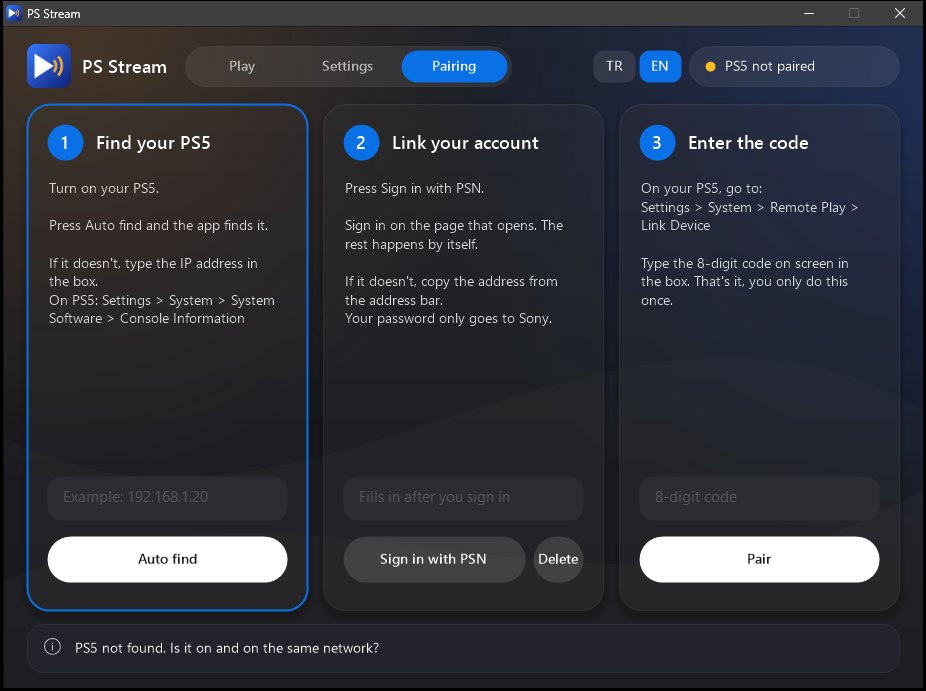
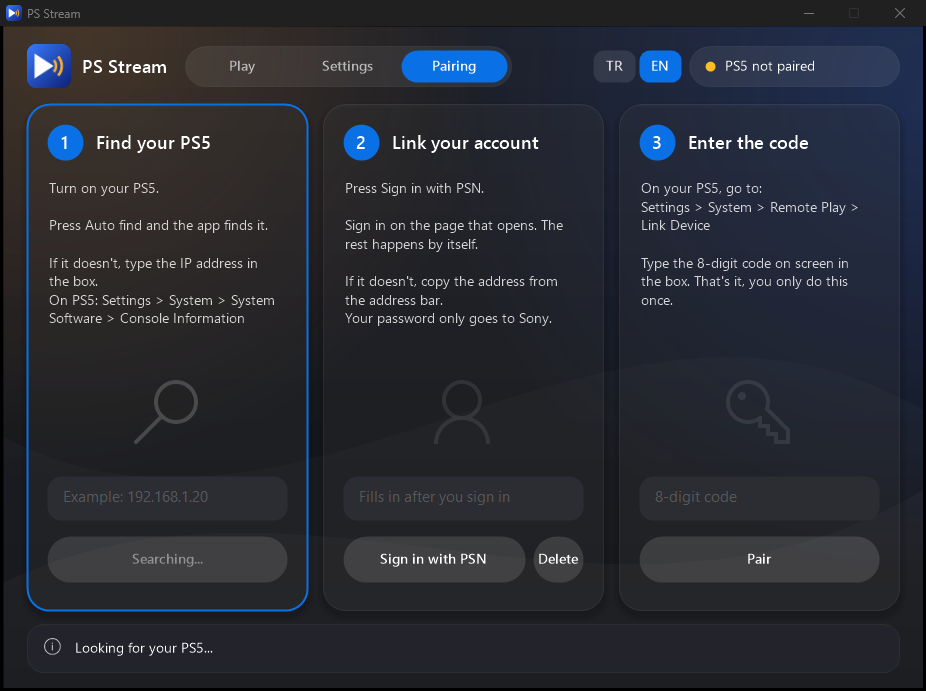
Make the Play and Pairing pages easier to read
Put each card's state on a dark pill, since green and amber were hard to
read on the orange card, and make only the start button stand out. Show the
current quality and output device on the cards, with the device clickable,
and use large faint icons in the empty space.

Move Cancel on the Pairing page off the code box, which took its clicks.

diff --git a/src/ui.c b/src/ui.c
@@ -44,6 +44,9 @@
 #define ICON_INFO L"\uE946"
 #define ICON_VOLUME L"\uE995"
 #define ICON_MUTED L"\uE74F"
+#define ICON_STEP_FIND L"\uE721"
+#define ICON_STEP_ACCOUNT L"\uE77B"
+#define ICON_STEP_CODE L"\uE8D7"
 #define ICON_PLAY L""
 
 enum { UI_NONE, UI_NAV0, UI_NAV1, UI_NAV2, UI_AUDIO, UI_VIDEO, UI_MUTE, UI_LOWER, UI_HK_MUTE, UI_DETAILS, UI_ADVANCED, UI_SIMPLE, UI_APPLY, UI_FIND, UI_LOGIN, UI_ACCOUNT_CLEAR, UI_PAIR, UI_REPAIR,
@@ -52,7 +55,8 @@ enum { UI_NONE, UI_NAV0, UI_NAV1, UI_NAV2, UI_AUDIO, UI_VIDEO, UI_MUTE, UI_LOWER
 
 static struct {
 	GpGraphics *gx;
-	GpFont *small, *body, *semi, *title, *big, *icon, *icon_big;
+	GpFont *small, *body, *semi, *title, *big, *icon, *icon_big, *icon_large, *icon_huge;
+	ARGB slider_fill;
 	GpStringFormat *fmt;
 	HDC back_dc, bg_dc;
 	HBITMAP back_bmp;
@@ -295,7 +299,7 @@ static bool slider(int id, float x, float y, float w, int *value, int min, int m
 	}
 	float t = (float)(*value - min) / (max - min);
 	fill_round(x, y + 12, w, 4, 2, WHITE(45));
-	fill_round(x, y + 12, w * t, 4, 2, C_ACCENT);
+	fill_round(x, y + 12, w * t, 4, 2, ui.slider_fill);
 	float grow = anim(id, b.held || b.hot ? 1.0f : 0) * 2;
 	dot(x + w * t - 8 - grow / 2, y + 6 - grow / 2, 16 + grow, mix(WHITE(230), WHITE(255), grow / 2));
 	return *value != old;
@@ -556,6 +560,7 @@ static void card(int id, float x, float y, float w, float h, ARGB c1, ARGB c2, c
 		GdipSetClipPath(ui.gx, p, CombineModeReplace);
 		wave(ui.gx, dx, dy, dw, dh, 0.38f, 0.12f, 0.70f, 0.30f, WHITE(18));
 		wave(ui.gx, dx, dy, dw, dh, 0.60f, 0.84f, 0.32f, 0.52f, WHITE(20));
+		text(icon, ui.icon_huge, x + w - 200, y + 26, 190, 190, WHITE(30), 1, 1);
 		if(lit == 0)
 		{
 			GpSolidFill *dim;
@@ -580,10 +585,19 @@ static void card(int id, float x, float y, float w, float h, ARGB c1, ARGB c2, c
 	bool connecting = on && !g.connected;
 	bool blink = connecting && (GetTickCount() / 500) % 2;
 	float py = y + h - 76;
-	dot(x + 28, py + 20, 12, !on ? WHITE(110) : connecting ? (blink ? COLOR(110, 251, 191, 36) : C_AMBER) : C_GREEN);
-	text(!on ? L"Kapalı" : connecting ? L"Bağlanıyor" : L"Açık", ui.title, x + 48, py, w - 200, 52, !on ? WHITE(190) : connecting ? C_AMBER : C_GREEN, 0, 1);
-	if(pill_button(id, on ? L"Kapat" : L"Aç", x + w - 146, py, 124, 52, true, true))
+	// On a dark pill, since green and amber are hard to read directly on the coloured card
+	fill_round(x + 20, py + 6, 152, 40, 20, COLOR(95, 0, 0, 0));
+	dot(x + 34, py + 20, 12, !on ? WHITE(110) : connecting ? (blink ? COLOR(110, 251, 191, 36) : C_AMBER) : C_GREEN);
+	text(!on ? L"Kapalı" : connecting ? L"Bağlanıyor" : L"Açık", ui.title, x + 54, py, 116, 52, !on ? WHITE(210) : connecting ? C_AMBER : C_GREEN, 0, 1);
+	// The button to start stands out; the one to stop doesn't need to
+	if(pill_button(id, on ? L"Kapat" : L"Aç", x + w - 146, py, 124, 52, !on, true))
 		toggle(id);
+}
+
+static void card_info(float x, float y, float w, const wchar_t *label, ARGB fill)
+{
+	fill_round(x, y, w, 30, 15, fill);
+	text(label, ui.small, x + 14, y, w - 28, 30, WHITE(235), 0, 1);
 }
 
 static void stat_tile(float x, float y, float w, float h, const wchar_t *label, const wchar_t *value, ARGB color)
@@ -597,12 +611,31 @@ static void stat_tile(float x, float y, float w, float h, const wchar_t *label, 
 static void page_play(void)
 {
 	Settings s = settings_get();
+	// The output device can also be chosen from this page, where there's no Apply to press
+	if(strcmp(ui.draft.device, s.device) != 0)
+	{
+		snprintf(s.device, sizeof(s.device), "%s", ui.draft.device);
+		settings_commit(&s);
+	}
 
 	// Without the details row, the cards take its room
 	float extra = anim(UI_NONE + UI_MAX, ui.details ? 0 : 70);
 	float cw = (UI_W - 48 - 16) / 2.0f, cy = 78, ch = 330 + extra;
 	card(UI_AUDIO, 24, cy, cw, ch, COLOR(255, 214, 134, 46), COLOR(255, 110, 58, 24), ICON_AUDIO,
 			L"Ses", L"Oyunun sesini bilgisayardan duy.", g.want_audio != 0);
+
+	wchar_t info[128], device_w[64];
+	wcscpy(device_w, tr(L"Windows varsayılanı"));
+	if(s.device[0])
+		MultiByteToWideChar(CP_UTF8, 0, s.device, -1, device_w, 63);
+	device_w[63] = 0;
+	swprintf(info, 128, tr(L"Çıkış: %ls"), device_w);
+	Hit output = hit(UI_DEVICE, 46, cy + 146, cw - 44, 30);
+	card_info(46, cy + 146, cw - 44, info, COLOR((int)(95 + 45 * anim(UI_DEVICE, output.hot ? 1.0f : 0)), 0, 0, 0));
+	if(output.click)
+		ui.open_device_menu = true;
+	if(mouse_in(46, cy + 146, cw - 44, 30))
+		ui.tip = L"Oyun sesinin çıkacağı aygıtı seç";
 
 	// Volume right on the card, since it's the control people reach for most
 	float vy = cy + ch - 124;
@@ -614,8 +647,10 @@ static void page_play(void)
 	if(mouse_in(40, vy - 2, 32, 32))
 		ui.tip = L"Sesi kısar, bağlantı açık kalır. Kısayol: Gelişmiş ayarlar";
 	int volume = s.volume;
+	ui.slider_fill = WHITE(240); // Blue fights with the orange card
 	if(slider(UI_QUICK_VOLUME, 80, vy, cw - 150, &volume, 0, 200))
 		volume_set(volume);
+	ui.slider_fill = C_ACCENT;
 	wchar_t pct[16];
 	swprintf(pct, 16, tr(L"%%%d"), volume);
 	text(g.muted ? L"Kısık" : pct, ui.semi, cw - 50, vy, 58, 28, g.muted ? C_AMBER : C_TEXT, 2, 1);
@@ -627,6 +662,10 @@ static void page_play(void)
 			L"Görüntü", L"Oyunu bilgisayarda gör.\nDiscord'da \"PS Stream - Görüntü\" penceresini seç.", g.want_video != 0);
 	if(mouse_in(vx, cy, cw, ch - 80))
 		ui.tip = L"Görüntü penceresinde F11 tam ekran yapar.";
+	wchar_t rate[32];
+	bitrate_text(rate, 32, s.kbps);
+	swprintf(info, 128, L"%dp  ·  %d FPS  ·  %ls  ·  %ls", resolutions[s.res].height, s.fps, rate, s.h265 ? L"H.265" : L"H.264");
+	card_info(vx + 22, cy + 146, cw - 44, info, COLOR(95, 0, 0, 0));
 
 	static const wchar_t *const names[] = { L"En düşük", L"Düşük", L"Dengeli", L"Yüksek", L"En yüksek" };
 	static const wchar_t *const subs[] = { L"360p, 0,5 Mbps", L"360p, 2 Mbps", L"720p, 6 Mbps", L"1080p 60, 20 Mbps", L"1080p 60, 50 Mbps" };
@@ -969,6 +1008,10 @@ static void page_pair(void)
 			text(nums[i], ui.title, x + 20, y + 20, 36, 36, C_TEXT, 1, 1);
 		text(titles[i], ui.title, x + 66, y + 20, w - 80, 36, C_TEXT, 0, 1);
 		bool done = i == 2 && paired_view;
+		static const wchar_t *const step_icons[] = { ICON_STEP_FIND, ICON_STEP_ACCOUNT, ICON_STEP_CODE };
+		// The third step's space holds the Cancel button while pairing again
+		if(i != 2 || !g.paired || paired_view)
+			text(done ? ICON_CHECK : step_icons[i], ui.icon_large, x, y + 262, w, 100, steps_done[i] ? COLOR(46, 74, 222, 128) : WHITE(next_step == i ? 46 : 22), 1, 1);
 		text(done ? L"PS5 eşleşti. Bir daha kod girmen gerekmez.\n\nOynat sayfasından Ses veya Görüntü'yü aç, yeterli.\n\nKodu sadece başka bir hesap bağlamak istersen girersin." : bodies[i], ui.body, x + 20, y + 74, w - 40, 284, WHITE(205), 0, 0);
 		if(!done)
 		{
@@ -1014,7 +1057,7 @@ static void page_pair(void)
 	else
 	{
 		// The old pairing keeps working until a new one replaces it, so this can always be undone
-		if(g.paired && pill_button(UI_REPAIR, L"Vazgeç", x2 + 20, by - 56, bw, 46, false, true))
+		if(g.paired && pill_button(UI_REPAIR, L"Vazgeç", x2 + 20, field_y - 56, bw, 46, false, true))
 		{
 			ui.repairing = false;
 			ui.again = true;
@@ -1697,6 +1740,9 @@ static void ui_create(HINSTANCE inst)
 	ui.big = font_make(L"Segoe UI Semibold", 28);
 	ui.icon = font_make(L"Segoe MDL2 Assets", 18);
 	ui.icon_big = font_make(L"Segoe MDL2 Assets", 30);
+	ui.icon_large = font_make(L"Segoe MDL2 Assets", 64);
+	ui.icon_huge = font_make(L"Segoe MDL2 Assets", 120);
+	ui.slider_fill = C_ACCENT;
 	GdipCreateStringFormat(0, LANG_NEUTRAL, &ui.fmt);
 	ui.field_brush = CreateSolidBrush(RGB(43, 45, 51));
 

diff --git a/src/i18n.c b/src/i18n.c
@@ -133,6 +133,8 @@ static const wchar_t *const english[][2] = {
 	{ L"Wi-Fi zayıf, ses kesiliyor. Modeme yaklaşmak veya 5 GHz'e geçmek iyi gelir", L"Weak Wi-Fi: audio is cutting out. Moving closer to the router or using 5 GHz helps" },
 	{ L"PS5'e bağlandı", L"Connected to your PS5" },
 	{ L"PS5 bağlantısı koptu, yeniden deneniyor", L"Lost the PS5 connection, trying again" },
+	{ L"Çıkış: %ls", L"Output: %ls" },
+	{ L"Oyun sesinin çıkacağı aygıtı seç", L"Choose where game audio plays" },
 	{ L"KISAYOLLAR", L"HOTKEYS" },
 	{ L"Tıkla, sonra tuş kombinasyonuna bas. Esc iptal eder, Delete kaldırır.", L"Click, then press a key combination. Esc cancels, Delete clears." },
 	{ L"Tuşa bas...", L"Press keys..." },

diff --git a/src/main.c b/src/main.c
@@ -44,7 +44,7 @@
 
 // Below this rate we are outside what chiaki-ng offers, so a console that refuses to start
 // gets a second try with it.
-#define APP_VERSION "0.1.11"
+#define APP_VERSION "0.1.12"
 #define UPDATE_RECHECK_MS (6 * 60 * 60 * 1000)
 #define UPDATE_DOWNLOAD_PREFIX "https://github.com/Warhead500metalmonster/ps-stream/releases/download/"
 #define RELEASES_URL L"https://github.com/Warhead500metalmonster/ps-stream/releases/latest"
